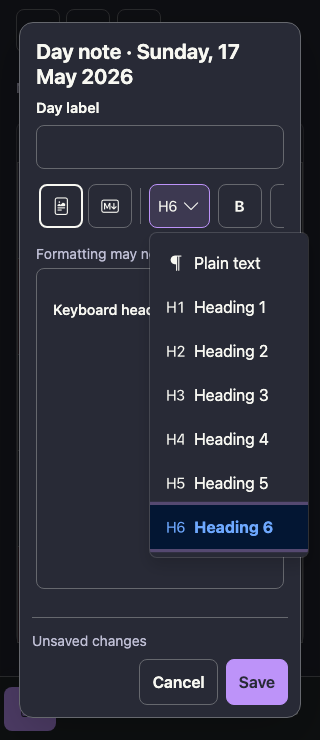
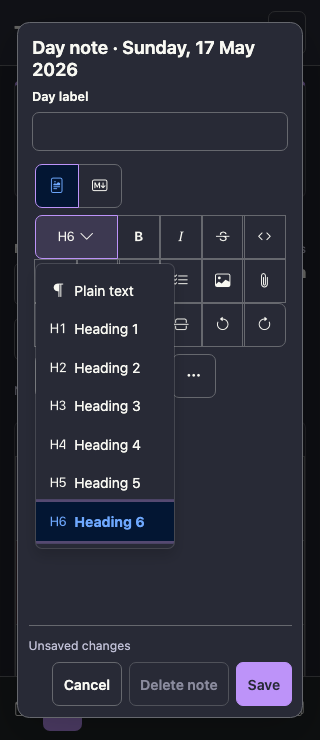
Refresh shared editor screenshots and document grouped controls and diffs

Changed region(s): [[0.0, 0.0311, 0.9688, 0.9946], [0.875, 0.4041, 0.9062, 0.4662], [0.875, 0.1554, 0.9062, 0.2176]]

diff --git a/docs/operations/NOTES-WEBDAV.md b/docs/operations/NOTES-WEBDAV.md
@@ -285,3 +285,7 @@ removes that historical snapshot after confirmation; the current saved note and
 unsaved draft remain intact. Read-only accounts can compare versions. Large
 comparisons show an explicit display limit, and exact BOM/line-ending-only
 changes are shown as escaped source.
+
+![Grouped editor and document actions](../assets/screenshots/notes-grouped-toolbar.png)
+
+![Coloured revision comparison](../assets/screenshots/note-revision-diff.png)
